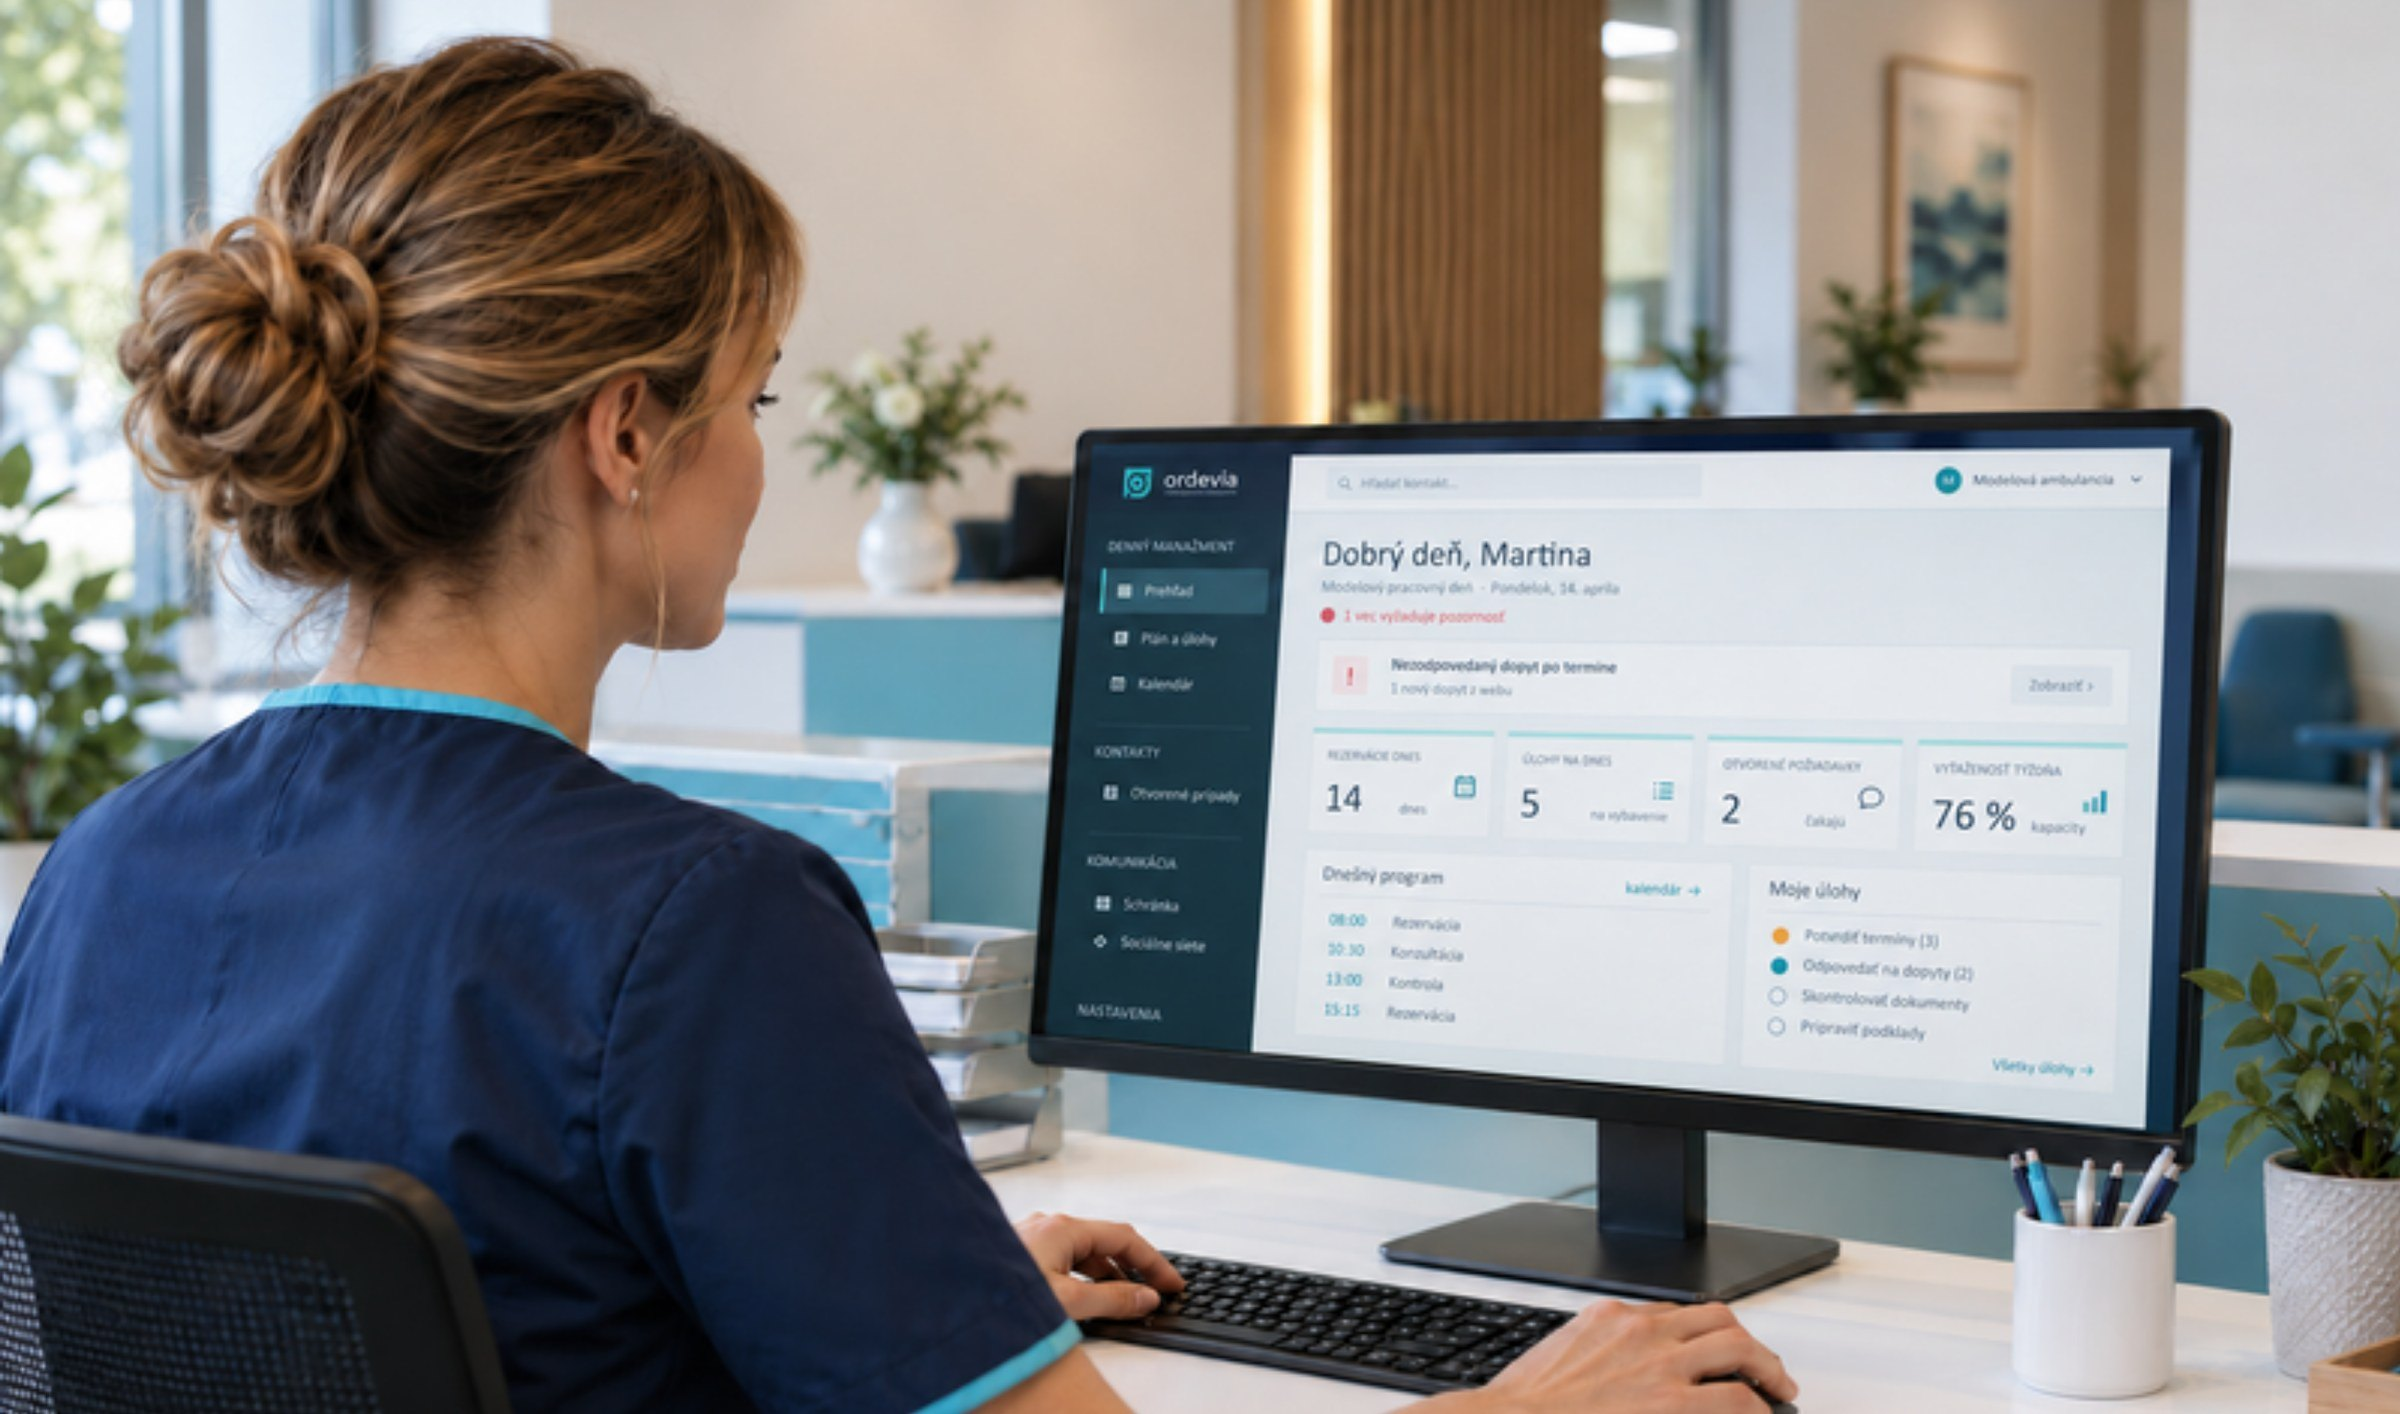
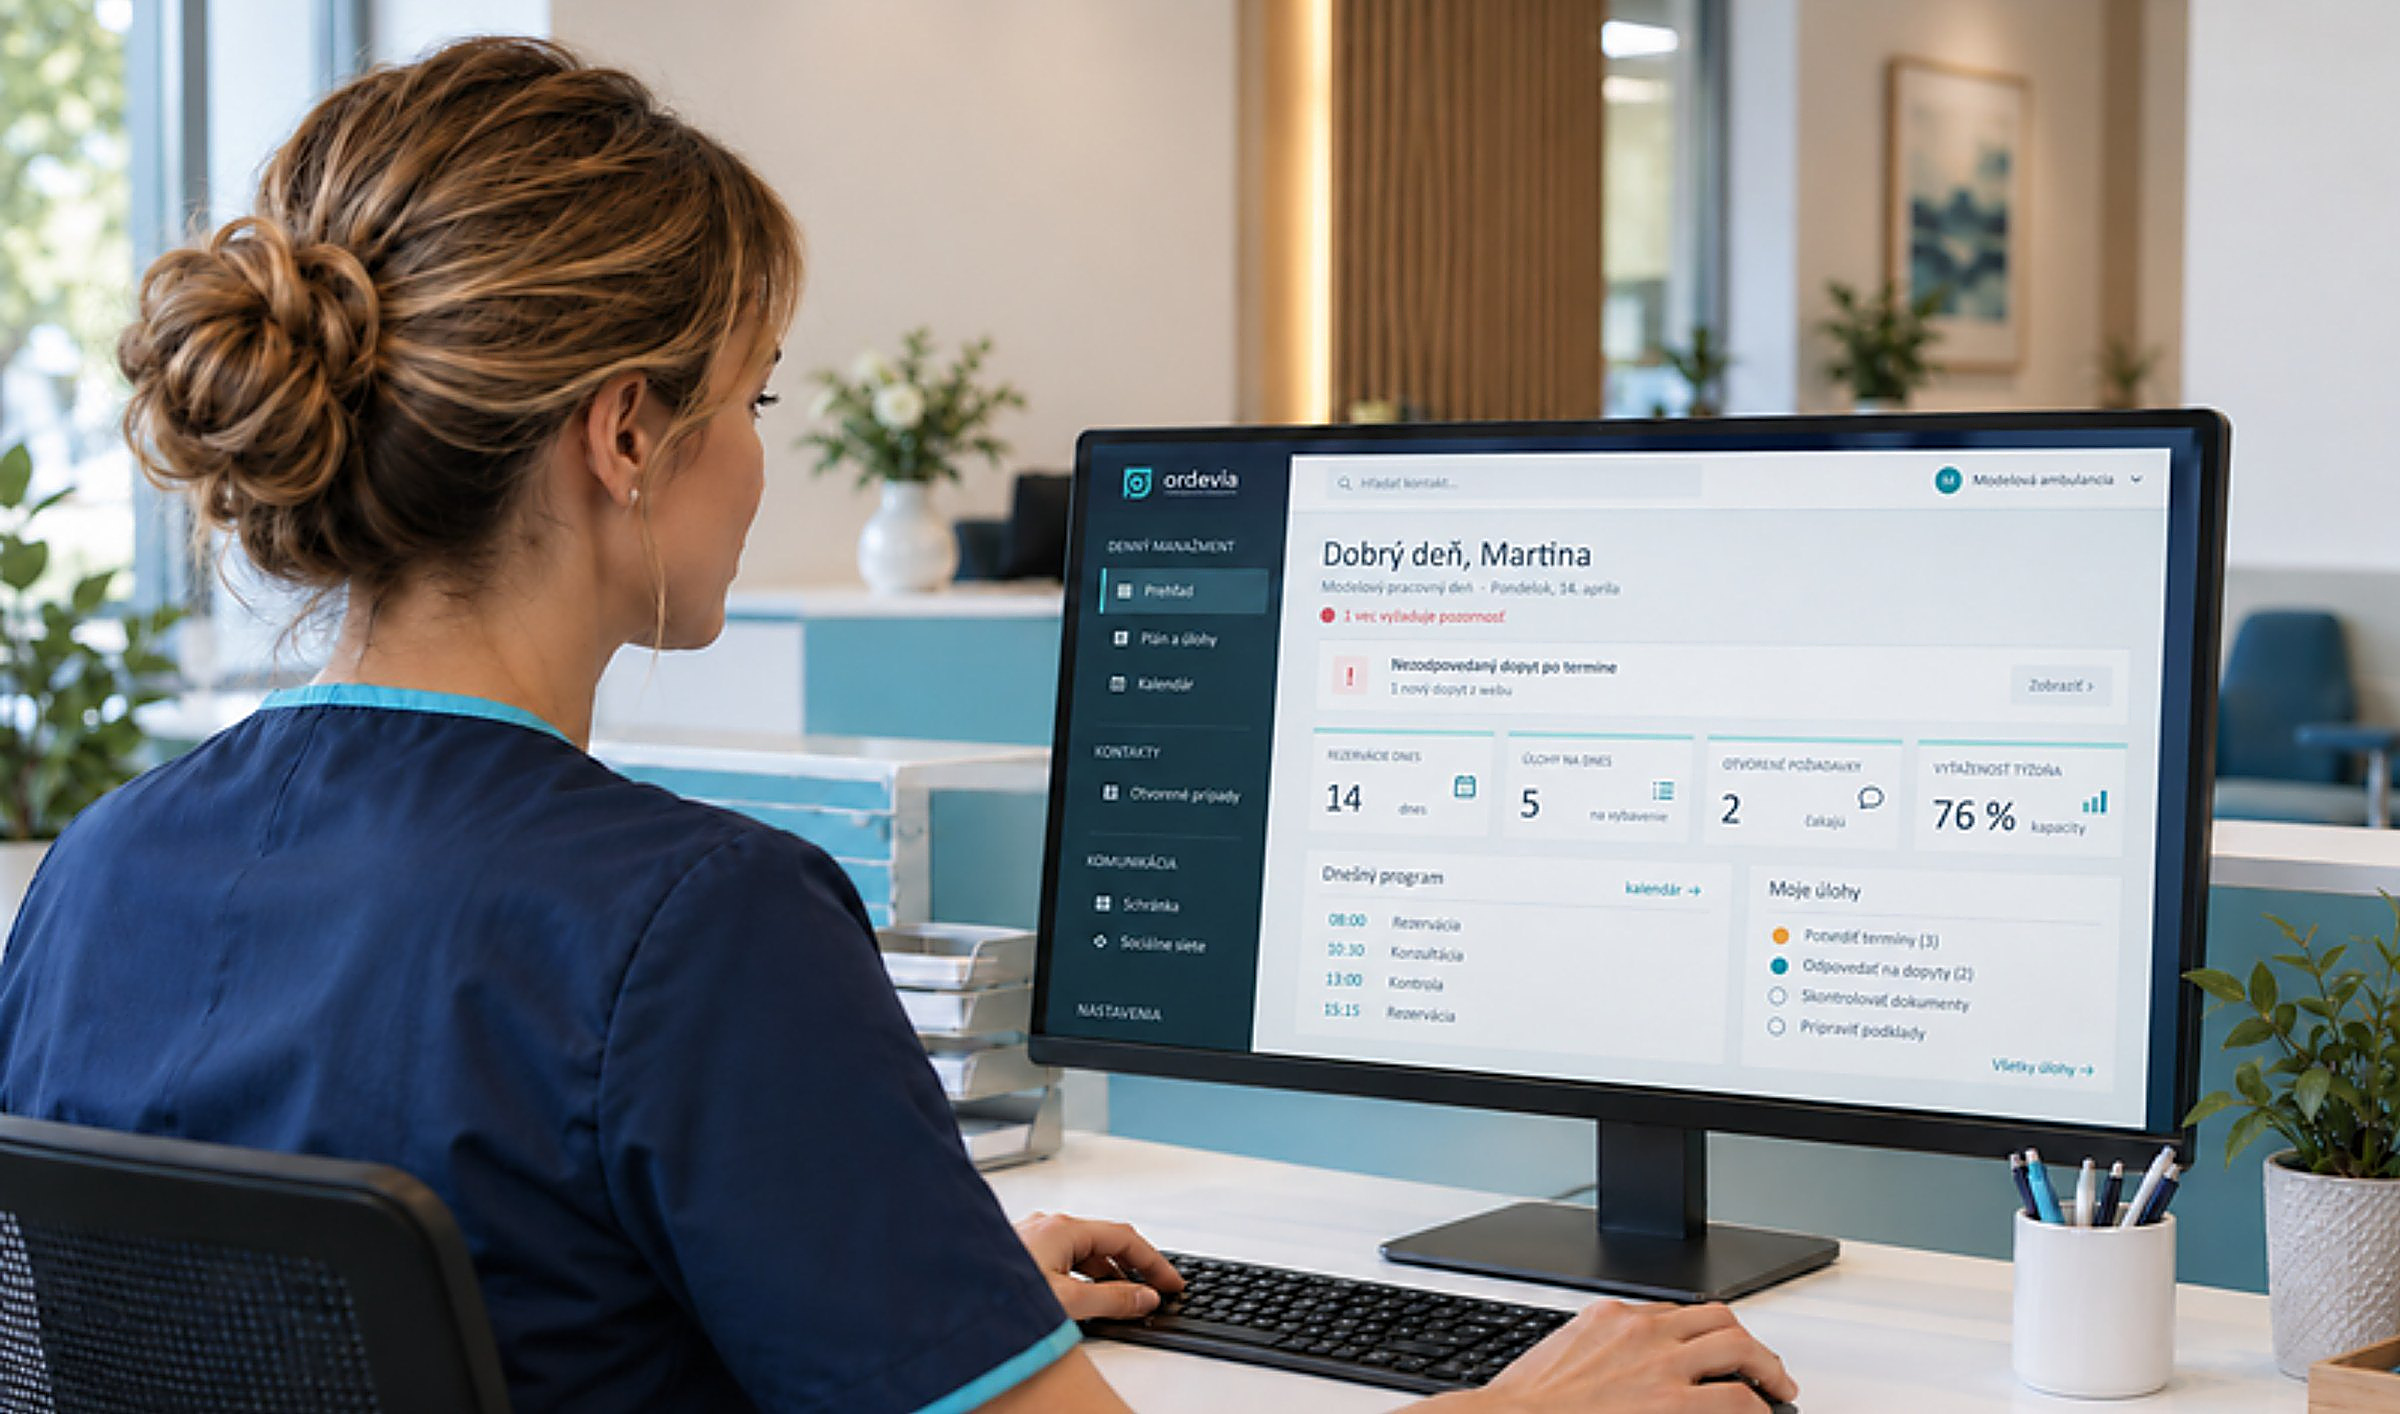
Ordevia: ostrejsi obrazok a bez popisku pod ilustraciou
Obrazok je mierne zostreny (unsharp mask, povodny rozmer 2400x1414) a popisok
o fiktivnych udajoch je odstraneny na zelanie Viktora (20. 11. 2026).

Co uvidi pouzivatel inak: pod ilustraciou uz nie je popisok; obrazok je o
nieco ostrejsi.

Claude-Session: https://claude.ai/code/session_01CY1rGeneDbr7V5S8Nyn2aN

diff --git a/src/app/(marketing)/sluzby/webova-aplikacia-ordevia/Content.tsx b/src/app/(marketing)/sluzby/webova-aplikacia-ordevia/Content.tsx
@@ -363,9 +363,6 @@ export default function OrdeviaServicePage({ qrApp, qrCrm }: { qrApp: React.Reac
                             sizes="(min-width: 1280px) 1200px, 95vw"
                             className="w-full h-auto rounded-3xl border border-white/5"
                         />
-                        <figcaption className="mt-4 text-center text-xs text-white/50 font-stolzl">
-                            Ilustrácia s fiktívnymi údajmi – nie snímka z aplikácie.
-                        </figcaption>
                     </figure>
 
                     <div className="grid grid-cols-1 md:grid-cols-2 gap-6">

diff --git a/CHANGELOG.md b/CHANGELOG.md
@@ -8,7 +8,7 @@
 
 **Čo treba doplniť ručne**: nič.
 
-**Pozor na**: obrázok je ilustrácia s fiktívnymi údajmi, preto má popisok „nie snímka z aplikácie“. Texty kariet sú len z položiek overených v `ORDEVIA.md`, sekcia 4.
+**Pozor na**: obrázok je ilustrácia s vymyslenými údajmi a popisok pod ním je odstránený na želanie Viktora (20. 11. 2026); pri ďalších ilustráciach s vymyslenými údajmi zvážiť upozornenie. Texty kariet sú len z položiek overených v `ORDEVIA.md`, sekcia 4.
 
 ## 2026-11-20 – Ordevia: oprava názvu „Conect“ a oddelenie Conect od CRM
 
